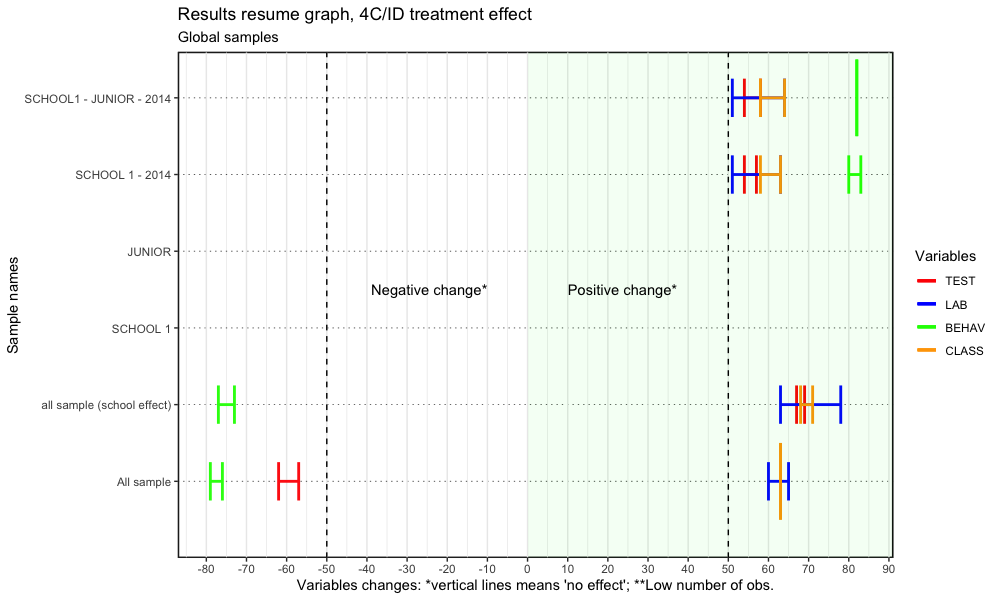
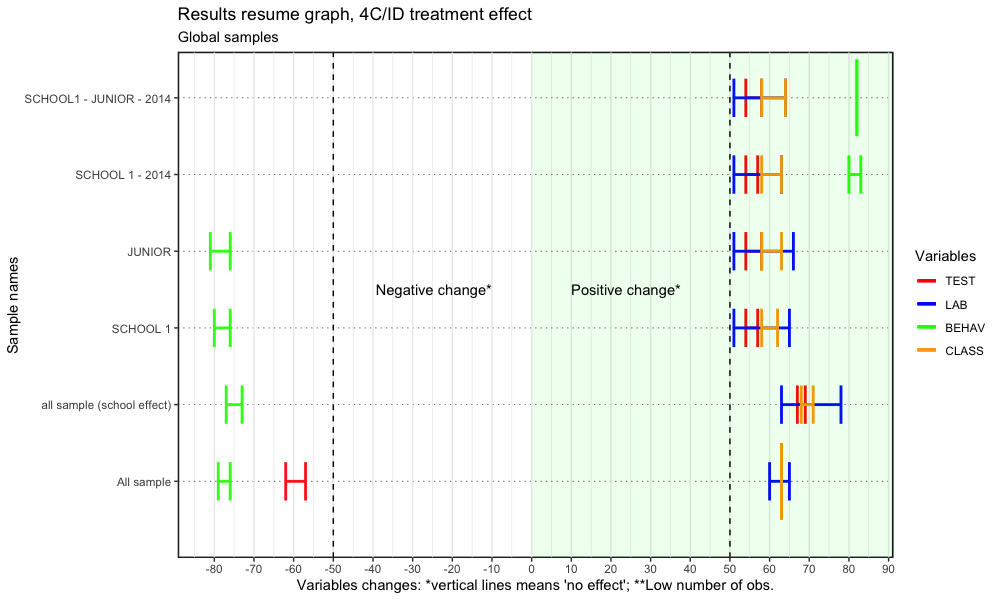
readme
iemages update

diff --git a/README.md b/README.md
@@ -83,10 +83,7 @@ The **statistical analysis**, made with R code software in the RStudio[^readme-4
 
 # RESULTS
 
-Figure 2 shows the changes on variables TEST, LAB, BEHAV and CLASS, between control and treatment group, for the global samples on the y-axis. Moving up on the graph, this demonstrates that the results are getting more favorable to the educational 4C/ID methodology change. Looking at "all sample" it's clear that the change is positive on LAB, negative for BEHAV and TEST, and no change for CLASS. Introducing the school differences (school effect), only the negative change persist in the BEHAV variable. 
-
-The correct results  should be between the Figure 1 shows the variable longitudinal time patterns, with box plots for variables, TEST, LAB, BEHAV and CLASS: it includes junior and junior high grade students data for both schools.
-
+Figure 2 and 3 shows the changes on variables TEST, LAB, BEHAV and CLASS, between control and treatment group, for the global samples presented on the y-axis. Moving up on the graph of figure 2, it demonstrates that the results are getting more favorable to the educational 4C/ID methodology change. Looking at "all sample" it's clear that the change is positive on LAB, negative for BEHAV and TEST, and no change for CLASS. Introducing the school differences (school effect), only the negative change persist in the BEHAV variable. If the sample is reduced until 2014 only, then BEHAV starts to have a no change to a positive change. The correct results should be in the middle of these two descriptions.
 
 Looking at figure 1 it's not clear an overall positive change but figure 3 shows a more favorable result because it's not biased by the schools differences and it compares the same student level. However, the correct results should be somewhere in between [^5results]. 
 
